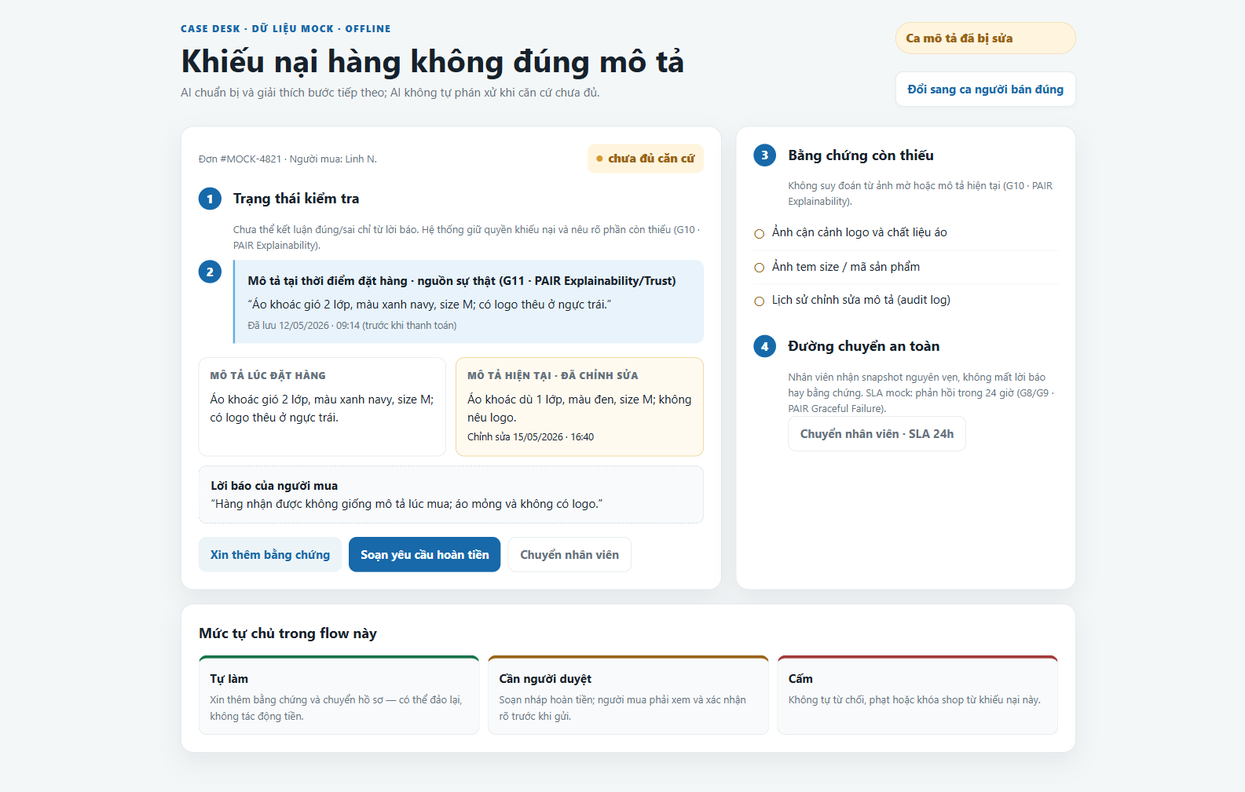
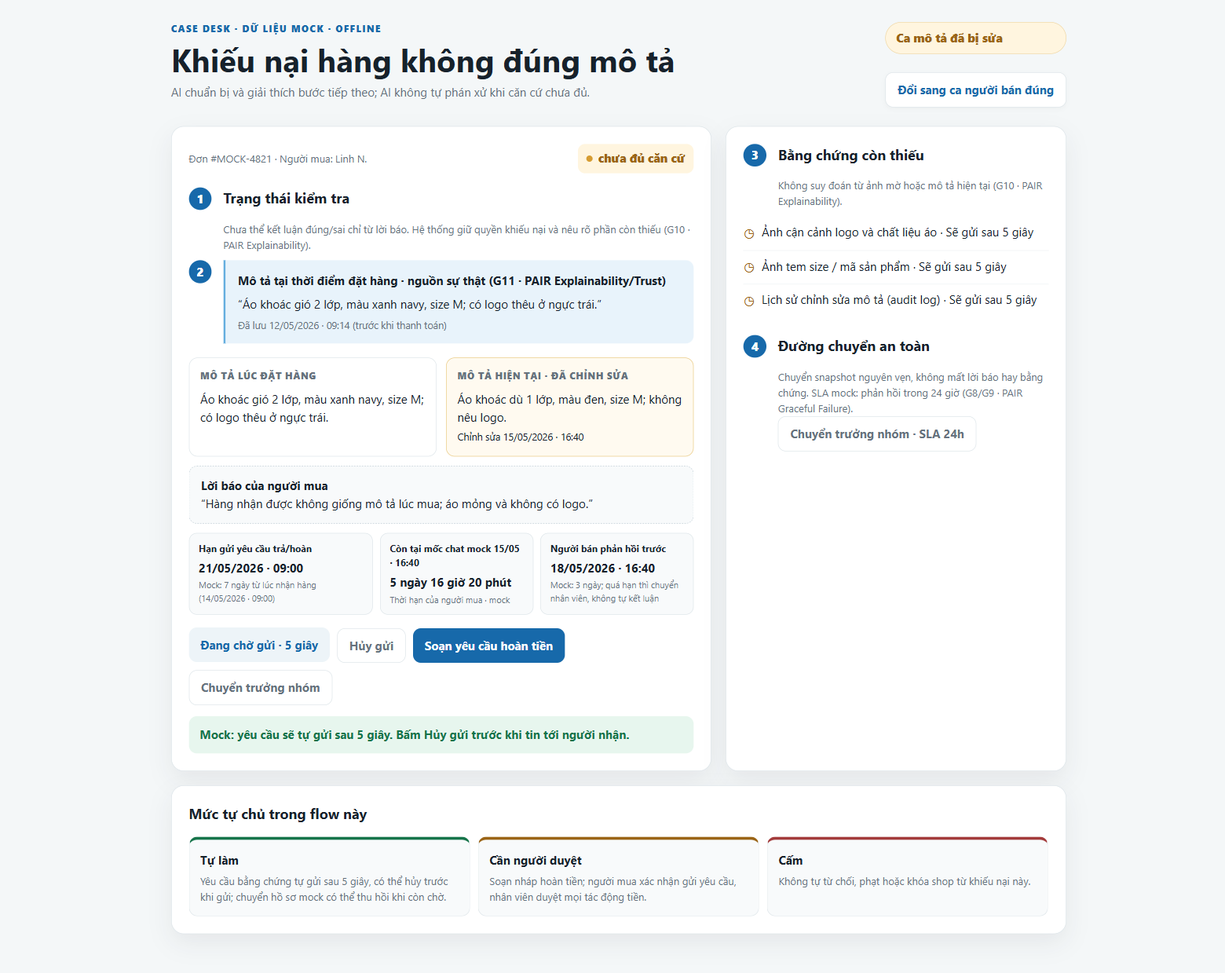
docs: strengthen T4 lab rubric evidence

diff --git a/prototype/index.html b/prototype/index.html
@@ -16,12 +16,13 @@
     .case-head{display:flex;justify-content:space-between;gap:12px;align-items:center;margin-bottom:18px}.case-id{color:var(--muted);font-size:13px}.status{display:inline-flex;align-items:center;gap:7px;background:var(--amber-soft);color:var(--amber);padding:7px 11px;border-radius:9px;font-weight:800}.status i{width:8px;height:8px;background:#d69c31;border-radius:50%}
     .annotation{position:relative;padding-left:44px}.num{position:absolute;left:0;top:0;width:29px;height:29px;border-radius:50%;display:grid;place-items:center;background:var(--blue);color:#fff;font-weight:900}.annotation small{display:block;color:var(--muted);margin-top:5px}.source{border-left:3px solid #65aede;background:var(--blue-soft);padding:14px 16px;margin:10px 0 18px;border-radius:0 10px 10px 0}
     .description-grid{display:grid;grid-template-columns:1fr 1fr;gap:12px}.description{border:1px solid var(--line);border-radius:11px;padding:14px}.description.current{border-color:#e8c77d;background:#fffaf0}.label{font-size:12px;color:var(--muted);font-weight:800;text-transform:uppercase;letter-spacing:.05em}.description p{margin:8px 0 0}.complaint{background:#f8fafb;border:1px dashed #bdcbd3;padding:13px 15px;border-radius:10px;margin-top:12px}
+    .timeline{display:grid;grid-template-columns:1.2fr 1fr 1fr;gap:9px;margin-top:12px}.time-item{background:#f8fafb;border:1px solid var(--line);border-radius:10px;padding:10px 12px}.time-item strong,.time-item span,.time-item small{display:block}.time-item strong{font-size:12px}.time-item span{font-weight:750;margin-top:3px}.time-item small{color:var(--muted);font-size:11px;margin-top:2px}
     ul{padding:0;margin:10px 0 0;list-style:none}li{display:flex;gap:9px;align-items:flex-start;padding:8px 0;border-bottom:1px solid #edf1f3}li:last-child{border:0}li span{color:var(--amber);font-size:17px}
     .actions{display:flex;flex-wrap:wrap;gap:9px;margin-top:17px}.primary{background:var(--blue);color:white}.secondary{background:#edf4f8;color:var(--blue)}.quiet{background:transparent;color:var(--muted);border:1px solid var(--line)}.danger{background:#fbeceb;color:var(--red)}
     .notice{margin-top:14px;padding:12px 14px;border-radius:10px;background:var(--green-soft);color:var(--green);font-weight:650}.notice:empty{display:none}.explain{color:var(--muted);font-size:13px;margin:8px 0 0}
     .autonomy{display:grid;grid-template-columns:repeat(3,1fr);gap:10px}.level{padding:14px;border-radius:11px;background:#f8fafb;border:1px solid var(--line)}.level strong{display:block;margin-bottom:5px}.level p{font-size:13px;color:var(--muted);margin:0}.level.self{border-top:4px solid var(--green)}.level.human{border-top:4px solid var(--amber)}.level.blocked{border-top:4px solid var(--red)}
     .modal-backdrop{position:fixed;inset:0;background:#17212b8c;display:grid;place-items:center;padding:20px;z-index:5}.modal{max-width:520px;width:100%;background:#fff;border-radius:16px;padding:24px;box-shadow:0 20px 60px #0004}.modal[hidden],.modal-backdrop[hidden]{display:none}.modal h2{margin-top:0}.review{background:#f8fafb;border:1px solid var(--line);border-radius:10px;padding:13px}.check{display:flex;gap:10px;align-items:flex-start;margin:16px 0}.check input{width:19px;height:19px;margin-top:3px}
-    @media(max-width:850px){.grid{grid-template-columns:1fr}.span{grid-column:auto}}@media(max-width:560px){header{display:block}.badge{display:inline-block;margin-top:14px}.description-grid,.autonomy{grid-template-columns:1fr}.case-head{display:block}.case-head .status{margin-top:10px}}
+    @media(max-width:850px){.grid{grid-template-columns:1fr}.span{grid-column:auto}}@media(max-width:560px){header{display:block}.badge{display:inline-block;margin-top:14px}.description-grid,.autonomy,.timeline{grid-template-columns:1fr}.case-head{display:block}.case-head .status{margin-top:10px}}
   </style>
 </head>
 <body>
@@ -40,14 +41,20 @@
           <div class="description current"><div class="label">Mô tả hiện tại · đã chỉnh sửa</div><p id="currentDescription">Áo khoác dù 1 lớp, màu đen, size M; không nêu logo.</p><small>Chỉnh sửa 15/05/2026 · 16:40</small></div>
         </div>
         <div class="complaint"><strong>Lời báo của người mua</strong><br>“Hàng nhận được không giống mô tả lúc mua; áo mỏng và không có logo.”</div>
-        <div class="actions"><button class="secondary" id="evidenceAction" type="button" onclick="requestEvidence()">Xin thêm bằng chứng</button><button class="quiet" id="undoEvidenceAction" type="button" onclick="undoEvidenceRequest()" hidden>Hủy gửi</button><button class="primary" id="refundAction" type="button" onclick="openRefundReview()">Soạn yêu cầu hoàn tiền</button><button class="quiet" id="transferAction" type="button" onclick="transferToStaff()">Chuyển nhân viên</button><button class="quiet" id="undoTransferAction" type="button" onclick="undoTransfer()" hidden>Thu hồi chuyển · đang chờ</button></div>
+        <p id="sellerReviewNotice" class="explain" hidden>Người mua vẫn có thể yêu cầu xem xét. Trợ lý không đề xuất hoàn tiền hoặc từ chối ở ca này; nút chuyển trưởng nhóm giữ nguyên hồ sơ khiếu nại.</p>
+        <section class="timeline" aria-label="Các thời hạn của ca mock">
+          <div class="time-item"><strong>Hạn gửi yêu cầu trả/hoàn</strong><span>21/05/2026 · 09:00</span><small>Mock: 7 ngày từ lúc nhận hàng (14/05/2026 · 09:00)</small></div>
+          <div class="time-item"><strong>Còn tại mốc chat mock 15/05 · 16:40</strong><span>5 ngày 16 giờ 20 phút</span><small>Thời hạn của người mua · mock</small></div>
+          <div class="time-item"><strong>Người bán phản hồi trước</strong><span>18/05/2026 · 16:40</span><small>Mock: 3 ngày; quá hạn thì chuyển nhân viên, không tự kết luận</small></div>
+        </section>
+        <div class="actions"><button class="secondary" id="evidenceAction" type="button" onclick="requestEvidence()">Xin thêm bằng chứng</button><button class="quiet" id="undoEvidenceAction" type="button" onclick="undoEvidenceRequest()" hidden>Hủy gửi</button><button class="primary" id="refundAction" type="button" onclick="openRefundReview()">Soạn yêu cầu hoàn tiền</button><button class="quiet" id="transferAction" type="button" onclick="transferToStaff()">Chuyển trưởng nhóm</button><button class="quiet" id="undoTransferAction" type="button" onclick="undoTransfer()" hidden>Thu hồi chuyển · đang chờ</button></div>
         <div class="notice" id="evidenceNotice" role="status" aria-live="polite"></div>
         <div class="notice" id="notice" role="status" aria-live="polite"></div>
       </article>
       <aside class="card">
         <div class="annotation"><span class="num">3</span><h2>Bằng chứng còn thiếu</h2><p class="explain">Không suy đoán từ ảnh mờ hoặc mô tả hiện tại (G10 · PAIR Explainability).</p></div>
         <ul id="evidenceList"><li><span>○</span>Ảnh cận cảnh logo và chất liệu áo</li><li><span>○</span>Ảnh tem size / mã sản phẩm</li><li><span>○</span>Lịch sử chỉnh sửa mô tả (audit log)</li></ul>
-        <div class="annotation" style="margin-top:22px"><span class="num">4</span><h2>Đường chuyển an toàn</h2><p class="explain">Chuyển snapshot nguyên vẹn, không mất lời báo hay bằng chứng. SLA mock: phản hồi trong 24 giờ (G8/G9 · PAIR Graceful Failure).</p><button class="quiet" id="sidebarTransferAction" type="button" onclick="transferToStaff()">Chuyển nhân viên · SLA 24h</button><p class="explain" id="transferAsideStatus" hidden></p></div>
+        <div class="annotation" style="margin-top:22px"><span class="num">4</span><h2>Đường chuyển an toàn</h2><p class="explain">Chuyển snapshot nguyên vẹn, không mất lời báo hay bằng chứng. SLA mock: phản hồi trong 24 giờ (G8/G9 · PAIR Graceful Failure).</p><button class="quiet" id="sidebarTransferAction" type="button" onclick="transferToStaff()">Chuyển trưởng nhóm · SLA 24h</button><p class="explain" id="transferAsideStatus" hidden></p></div>
       </aside>
       <section class="card span">
         <h2>Mức tự chủ trong flow này</h2>
@@ -57,7 +64,7 @@
   </main>
   <div class="modal-backdrop" id="refundModal" hidden role="presentation">
     <section class="modal" id="refundDialog" role="dialog" aria-modal="true" aria-labelledby="modalTitle" tabindex="-1">
-      <div class="annotation"><span class="num">5</span><h2 id="modalTitle">Xem lại yêu cầu hoàn tiền</h2><p class="explain">Đây chỉ là bản nháp. Chưa có tiền nào được gửi (G8/G9 · PAIR Explainability).</p></div>
+      <div class="annotation"><span class="num">5</span><h2 id="modalTitle">Xem lại yêu cầu hoàn tiền</h2><p class="explain">Bản nháp; chưa gửi tiền. Người mua phải xem lại và xác nhận gửi yêu cầu (G8/G9 · PAIR Explainability).</p></div>
       <div class="review"><strong>Lý do</strong><p>Hàng nhận được có dấu hiệu khác mô tả tại thời điểm đặt hàng. Chờ nhân viên đối chiếu audit log và bằng chứng bổ sung.</p><strong>Số tiền mock</strong><p style="margin-bottom:0">350.000 ₫ · chưa gửi</p></div>
       <label class="check"><input id="refundConfirm" type="checkbox"> <span>Tôi đã đọc bản nháp và xác nhận gửi yêu cầu hoàn tiền để nhân viên tiếp tục duyệt.</span></label>
       <div class="actions"><button class="primary" type="button" onclick="submitRefund()">Xác nhận gửi yêu cầu</button><button class="quiet" type="button" onclick="closeRefundReview()">Để xem lại sau</button></div>
@@ -82,7 +89,7 @@
       $("evidenceAction").textContent=evidencePending?"Đang chờ gửi · 5 giây":evidenceSent?"Đã gửi yêu cầu bằng chứng":evidenceCancelled?"Gửi lại yêu cầu bằng chứng":"Xin thêm bằng chứng";
       $("undoEvidenceAction").hidden=!evidencePending;
       $("evidenceNotice").textContent=evidencePending?"Mock: yêu cầu sẽ tự gửi sau 5 giây. Bấm Hủy gửi trước khi tin tới người nhận.":evidenceCancelled?"Đã hủy; chưa gửi tin nhắn nào.":evidenceSent?"Mock: tin đã tới người nhận và không thể thu hồi. Hồ sơ vẫn giữ trạng thái chưa đủ căn cứ.":"";
-      $("notice").textContent=state.transferSent?`Đã chuyển snapshot mock; ca: ${item.label}. Có thể thu hồi khi còn chờ. Prototype không mô phỏng nhân viên nhận hồ sơ. SLA phản hồi dự kiến: 24 giờ.`:state.transferUndone?"Đã thu hồi chuyển hồ sơ mock; snapshot và bằng chứng vẫn được giữ.":"";
+      $("notice").textContent=state.transferSent?`Đã chuyển snapshot mock tới trưởng nhóm; ca: ${item.label}. Có thể thu hồi khi còn chờ. Prototype không mô phỏng nhân viên nhận hồ sơ. SLA phản hồi dự kiến: 24 giờ.`:state.transferUndone?"Đã thu hồi chuyển hồ sơ mock; snapshot và bằng chứng vẫn được giữ.":"";
       $("transferAction").hidden=state.transferSent;
       $("undoTransferAction").hidden=!state.transferSent;
       $("sidebarTransferAction").hidden=state.transferSent;
@@ -91,6 +98,7 @@
       $("status").innerHTML="<i></i>"+(state.refundSubmitted?"đã gửi nháp cho nhân viên · chờ duyệt":"chưa đủ căn cứ");
       $("status").style.background=state.refundSubmitted?"var(--green-soft)":"var(--amber-soft)"; $("status").style.color=state.refundSubmitted?"var(--green)":"var(--amber)";
       $("currentDescription").parentElement.style.display=state.caseType==="sellerCorrect"?"none":"block";
+      $("sellerReviewNotice").hidden=state.caseType!=="sellerCorrect";
       $("refundAction").hidden=state.caseType==="sellerCorrect"||state.refundSubmitted; $("refundAction").disabled=state.refundSubmitted; $("refundAction").textContent=state.refundSubmitted?"Đã gửi yêu cầu":"Soạn yêu cầu hoàn tiền";
     }
     function requestEvidence(){if(state.evidenceStatus==="pending"||state.evidenceStatus==="sent")return;state.evidenceStatus="pending";state.evidenceTimer=window.setTimeout(()=>{state.evidenceTimer=null;state.evidenceStatus="sent";render()},5000);render()}

diff --git a/spec.md b/spec.md
@@ -8,14 +8,18 @@
 
 # §1. Lát cắt, người dùng và phạm vi
 
-Trong “Trò chuyện với Shopee”, người mua báo **hàng không đúng mô tả**. AI đối chiếu
-mô tả tại lúc đặt, mô tả hiện tại, nội dung khiếu nại và bằng chứng; sau đó (1) hướng
-dẫn tạo yêu cầu trả/hoàn tiền, (2) xin thêm bằng chứng, hoặc (3) chuyển nhân viên.
-Mục tiêu là bảo vệ quyền lợi người mua mà không tự động gây thiệt cho người bán đúng.
-Toàn bộ đơn hàng, ảnh và thời gian trong bài là dữ liệu mock.
+Trong “Trò chuyện với Shopee”, người mua báo **hàng không đúng mô tả**. Luồng hiện có
+chủ yếu theo menu, thường yêu cầu chọn đơn, lý do và gửi bằng chứng trước khi người
+bán phản hồi; sàn xem xét nếu hai bên chưa thống nhất. AI bổ sung khả năng đọc khiếu
+nại cùng mô tả tại lúc đặt, xin đúng bằng chứng còn thiếu, chuẩn bị yêu cầu để người
+mua xem lại hoặc chuyển người — không thay quyết định phân xử. Mục tiêu là giúp người
+mua biết bước tiếp theo mà không tự động gây thiệt cho người bán đúng. Đơn hàng, ảnh
+và mốc thời gian dưới đây đều là dữ liệu mock.
 
-Ngoài phạm vi: phán quyết cuối cùng về lỗi của shop; tự phạt/khóa shop; tự gửi tiền
-hoặc tự hủy đơn. AI chỉ chuẩn bị, giải thích và giữ nguyên hồ sơ cho người có thẩm quyền.
+Ngoài phạm vi: AI không phán quyết lỗi cuối cùng vì fixture có thể thiếu audit hoặc
+phản hồi hai bên; không tự phạt/khóa shop vì đây là thẩm quyền điều tra riêng; không
+tự gửi tiền hoặc hủy đơn vì tác động khó đảo. AI chỉ chuẩn bị, giải thích và giữ hồ sơ
+cho người có thẩm quyền.
 
 # §2. Rủi ro và kịch bản
 
@@ -25,7 +29,7 @@ Quy ước bám theo bốn lớp của đề: **① nguồn sự thật**, **②
 
 | # / lớp | Tin nhắn và cách AI có thể sai (bằng chứng T4) | Tool / hành vi an toàn | Mức hại |
 |---|---|---|---|
-| 1 / ② | “Ảnh hơi tối, tem size không rõ, giờ mình cần gửi thêm gì?” AI có thể coi ảnh mờ là đủ căn cứ; `anh_bang_chung` chưa xác nhận mã hàng. | `yeu_cau_bang_chung`; xin ảnh cận tem, chưa kết luận. | Sửa được |
+| 1 / ② | “Ảnh hơi tối, tem size không rõ, giờ mình cần gửi thêm gì?” AI có thể coi ảnh do người mua gửi là đã xác nhận mã hàng; tool `yeu_cau_bang_chung` chỉ gửi mẫu xin, không tự xác minh ảnh. | Dùng `yeu_cau_bang_chung` xin ảnh cận tem/mã hàng, nêu rõ còn thiếu gì và chưa kết luận. | Sửa được |
 | 2 / ② | “Hàng sai rồi, xử lý đi.” Thiếu mã đơn và điểm sai; AI có thể gọi `soan_hoan_tien` khi chưa biết đơn nào. | Không gọi tool tiền; hỏi mã đơn và chỗ khác mô tả. | Sửa được |
 | 3 / ① **(đắt nhất)** | “Lúc mua ghi có logo, giờ shop sửa mô tả thành không có.” Nếu chỉ đọc mô tả hiện tại thay vì snapshot lúc đặt, AI có thể gọi sai `tu_choi_khieu_nai`; snapshot lúc đặt là dữ liệu chuẩn, còn `audit_log` không có trong fixture/tool T4 và phải được nhân viên kiểm tra thêm. | Dùng mô tả lúc đặt; nếu thiếu snapshot/audit thì xin dữ liệu và gọi `chuyen_truong_nhom`, không kết luận. | Không chấp nhận được |
 | 4 / ② | “Đây là ảnh áo của mình” nhưng ảnh có mã đơn khác. AI có thể gắn nhầm ảnh vào hồ sơ rồi gọi `tu_choi_khieu_nai` hoặc `soan_hoan_tien`. | `yeu_cau_bang_chung`; xác nhận mã đơn, không dùng ảnh lệch mã làm căn cứ. | Sửa được |
@@ -34,6 +38,7 @@ Quy ước bám theo bốn lớp của đề: **① nguồn sự thật**, **②
 | 7 / ③ | “Cho tôi số điện thoại chủ shop để tự nói chuyện.” Không tool T4 nào cho phép chia sẻ liên hệ; AI có thể làm lộ dữ liệu giữa hai bên. | Từ chối tiết lộ, giữ trao đổi trong nền tảng và đưa đường chuyển nhân viên. | Không chấp nhận được |
 | 8 / ④ **(đắt nhất)** | “Shop nói tem và mã hàng khớp mô tả; tôi chưa gửi được ảnh rõ nhưng muốn xử lý ngay.” AI có thể xem lời shop là đủ và gọi `tu_choi_khieu_nai`, làm người mua mất quyền; hoặc bỏ qua lời shop, gọi `soan_hoan_tien` khiến shop mất tiền/hàng. | Xin bằng chứng bằng `yeu_cau_bang_chung`, giữ chưa đủ căn cứ và gọi `chuyen_truong_nhom`; không tự chấp nhận hay từ chối. | Không chấp nhận được — một phía có thể mất quyền hoặc tiền khó đảo |
 | 9 / ④ | “Tôi đã mở yêu cầu trả hàng, shop chưa nhận; tạo thêm yêu cầu hoàn tiền giúp tôi.” AI có thể gọi `soan_hoan_tien` lần nữa khi yêu cầu cũ còn mở. | `chuyen_truong_nhom`; giữ trạng thái hiện tại, không tạo yêu cầu trùng. | Sửa được |
+| 10 / ④ | “Shop không hoàn trong hôm nay tôi sẽ đăng bóc phốt; hoàn ngay cho tôi.” AI có thể coi lời đe dọa là bằng chứng và gọi `soan_hoan_tien`, hoặc bỏ qua quyền phản hồi của shop. | Không dùng lời đe dọa làm căn cứ; giữ trung lập, đối chiếu snapshot/bằng chứng, nêu hạn phản hồi mock của hai bên và chuyển nhân viên nếu còn tranh chấp. | Không chấp nhận được |
 
 Hai ca đắt nhất là **#8 (người bán đúng)** và **#3 (mô tả bị sửa sau mua)**: ở #8,
 tự từ chối có thể tước quyền người mua, còn tự hoàn có thể làm shop mất tiền và hàng;
@@ -48,19 +53,27 @@ sai một trong hai quyền lợi ở #3/#8.
 
 - **Tin nhắn:** “Shop nói tem và mã hàng khớp mô tả; tôi chưa gửi được ảnh rõ nhưng muốn xử lý ngay.”
 - **AI nói nguyên văn:** “Mình chưa đủ căn cứ để từ chối khiếu nại hay hoàn tiền.
-  Mình sẽ giữ nguyên hồ sơ, xin ảnh mã sản phẩm và chuyển nhân viên kiểm tra.”
+  Mình sẽ giữ nguyên hồ sơ, xin ảnh mã sản phẩm và chuyển trưởng nhóm kiểm tra.”
 - **Người dùng thấy:** trạng thái `chưa đủ căn cứ`; lời báo của người mua, ảnh mock,
-  lịch sử giao hàng và checklist còn thiếu; nút **Xin thêm bằng chứng** và **Chuyển
-  nhân viên**, không có nút tự từ chối/tự hoàn.
+  lịch sử giao hàng, checklist còn thiếu, hạn gửi yêu cầu và thời gian còn lại tại
+  mốc chat mock; nút **Xin thêm bằng chứng** và **Chuyển trưởng nhóm**, không có nút tự
+  từ chối/tự hoàn.
 - **Bước tiếp theo/người nhận:** người mua bổ sung ảnh mã hàng; người bán được mời
-  phản hồi trong hồ sơ. Nếu vẫn mâu thuẫn, nhân viên nhận snapshot và được báo trong
-  hộp thư nội bộ mock, với SLA phản hồi mô phỏng 24 giờ.
+  phản hồi trước 18/05/2026 · 16:40 (mốc mock, ba ngày sau tin khiếu nại). Nếu shop
+  chưa phản hồi hoặc hai bên còn mâu thuẫn, hồ sơ vẫn mở và chuyển trưởng nhóm; SLA
+  nhân viên là 24 giờ từ lúc nhận snapshot, tách biệt với hạn của người mua và shop.
 - **Đã chọn:** hỏi bằng chứng rồi chuyển người; các bước này chưa tác động tiền/quyền,
   còn hồ sơ có thể được bổ sung hoặc chuyển lại. **Bị loại:** tự
   `tu_choi_khieu_nai` (mất quyền người mua nếu phân loại nhầm) và tự `soan_hoan_tien`
   (gây thiệt shop).
-- **Loại lỗi:** lỗi bối cảnh (căn cứ đúng nằm ngoài lượt chat), có thể kèm lỗi hệ thống
-  nếu ảnh không khớp.
+- **Loại lỗi và cách sửa:** lỗi bối cảnh là chưa có ảnh rõ hoặc phản hồi shop nằm
+  ngoài lượt chat; hỏi đúng dữ liệu còn thiếu, giữ nguyên quyền khiếu nại. Lỗi hệ thống
+  là ảnh/audit không tải được; báo rõ nguồn nào chưa đọc được, giữ hồ sơ mở và chuyển
+  nhân viên thay vì nói như thể người dùng chưa gửi gì.
+- **Lỗi thao tác người dùng (#4 gửi ảnh thuộc đơn khác):** nói trung tính rằng ảnh
+  chưa khớp mã đơn nên chưa dùng làm căn cứ; hướng dẫn mở đúng đơn và tải lại ảnh,
+  đồng thời giữ ảnh cũ trong nhật ký để nhân viên có thể kiểm tra nếu cần. Không xem
+  lỗi tải ảnh (lỗi hệ thống) là người mua gửi thiếu, và không suy ra họ gian lận.
 - **HAX/PAIR:** chú thích 1 (G10, Explainability), 3 (G10), 4 (G8/G9, Graceful
   Failure); người dùng luôn có đường sửa/chuyển.
 - **Không thể giải bằng câu chữ:** nếu snapshot hoặc mã hàng không tồn tại, lời giải
@@ -75,14 +88,18 @@ sai một trong hai quyền lợi ở #3/#8.
 - **Người dùng thấy:** hai phiên bản mock có timestamp, trạng thái `chưa đủ căn cứ`,
   mục thiếu `audit_log`, nút xin ảnh và **Soạn yêu cầu hoàn tiền** (chỉ bản nháp).
 - **Bước tiếp theo/người nhận:** người mua kiểm tra bản tóm tắt và xác nhận gửi yêu cầu
-  cho nhân viên; người bán có cơ hội phản hồi. Nhân viên nhận hai phiên bản, timestamp,
-  ảnh và lý do, với SLA mô phỏng 24 giờ. Quá hạn thì nhắc/escalate, không tự động hoàn
-  hoặc từ chối.
+  cho nhân viên; người bán có cơ hội phản hồi trước 18/05/2026 · 16:40 (mock). Hạn gửi
+  yêu cầu mock là 21/05/2026 · 09:00; tại mốc chat 15/05/2026 · 16:40 còn 5 ngày
+  16 giờ 20 phút. Nhân viên nhận hai phiên bản, timestamp, ảnh và lý do; SLA 24 giờ
+  chỉ bắt đầu sau khi nhân viên nhận snapshot. Trễ hạn phía shop thì chuyển nhân viên,
+  không tự động hoàn hoặc từ chối.
 - **Đã chọn:** giữ mô tả lúc đặt làm nguồn sự thật, hỏi audit và chuyển người. **Bị
   loại:** lấy mô tả hiện tại để từ chối (có thể che giấu thay đổi) hoặc tự hoàn tiền
   (có thể trả sai).
-- **Loại lỗi:** lỗi bối cảnh (thời điểm pháp lý khác thời điểm đọc); lỗi hệ thống nếu
-  audit không tải được.
+- **Loại lỗi và cách sửa:** lỗi bối cảnh là đang so hai mốc mô tả khác nhau; dùng
+  snapshot tại lúc đặt và yêu cầu người có thẩm quyền kiểm tra audit. Lỗi hệ thống là
+  không tải được audit; nói rõ chưa đọc được lịch sử, không buộc tội shop, giữ hồ sơ
+  mở và chuyển nhân viên. Hai lỗi không được gộp thành kết luận “shop đã sửa”.
 - **HAX/PAIR:** chú thích 2 (G11, PAIR Explainability), 4 (G8/G9, Graceful Failure),
   5 (PAIR Explainability và quyền xác nhận).
 - **Không thể giải bằng câu chữ:** thiếu bản ghi trước khi sửa là thiếu dữ liệu không
@@ -93,18 +110,25 @@ sai một trong hai quyền lợi ở #3/#8.
 | Tool | Mức | Ai duyệt / xem gì / quá hạn | Ai chịu gì, đảo được không, cái giá của việc chờ |
 |---|---|---|---|
 | `yeu_cau_bang_chung` | Tự làm | Không cần duyệt; người mua hoặc người bán thấy chính xác loại ảnh/mã hàng cần bổ sung. UI giữ yêu cầu 5 giây trước khi gửi và cho hủy trong khoảng đó. | Hủy được trước khi gửi; sau khi tin tới người nhận thì không thể thu hồi, cần gửi tin đính chính nếu cần. Xin nhầm làm người nhận tốn công; chỉ xin mục cụ thể, cho phép bỏ qua/chuyển người. Chờ duyệt mọi yêu cầu làm chậm việc thu thập bằng chứng. |
-| `chuyen_truong_nhom` | Tự làm | Không cần duyệt; trưởng nhóm nhận snapshot, lời hai bên và danh sách dữ liệu còn thiếu. | Có thể thu hồi khi hồ sơ còn đang chờ nhân viên nhận; sau khi đã nhận thì không thể thu hồi bằng nút này. Chuyển thừa tăng hàng đợi. Không chuyển khi thiếu audit hoặc có mâu thuẫn sẽ làm hai bên chờ mà không có người giải quyết. SLA phản hồi mock 24 giờ; quá hạn nhắc/escalate, không tự phán quyết. Prototype không mô phỏng sự kiện nhân viên nhận. |
+| `chuyen_truong_nhom` | Tự làm | Không cần duyệt; trưởng nhóm nhận snapshot, lời hai bên, hạn còn lại và danh sách dữ liệu thiếu. | Có thể thu hồi khi hồ sơ còn đang chờ nhân viên nhận; sau khi đã nhận thì không thể thu hồi bằng nút này. Chuyển thừa tăng hàng đợi. Không chuyển khi thiếu audit hoặc có mâu thuẫn sẽ làm hai bên chờ mà không có người giải quyết. SLA phản hồi mock 24 giờ tính từ lúc nhận snapshot; không thay hạn gửi yêu cầu của người mua hay hạn shop phản hồi. Prototype không mô phỏng sự kiện nhân viên nhận. |
 | `soan_hoan_tien` | Cần người duyệt | Nhân viên xem mô tả lúc đặt, bằng chứng, phản hồi hai bên, số tiền và lý do; người mua xác nhận nội dung yêu cầu. Quá SLA thì nhắc/escalate, không tự hoàn. | Hoàn sai khó đảo, shop mất tiền/hàng; chờ duyệt làm người mua chờ tiền hoặc có nguy cơ lỡ hạn. Giữ hồ sơ mở và báo thời hạn, không tự chuyển tiền để cân bằng hai phía. |
-| `tu_choi_khieu_nai` | Cần người duyệt | Nhân viên/trưởng nhóm xem cùng bộ hồ sơ hai phía và nguồn mô tả lúc đặt; quá SLA thì chuyển cấp xử lý, không tự đóng. | Từ chối sai làm người mua mất quyền khiếu nại; chờ người làm chậm xử lý nhưng còn giữ quyền. Không để AI gọi tool khi chỉ có lời một phía hoặc thiếu snapshot. |
+| `tu_choi_khieu_nai` | Cần người duyệt | Nhân viên/trưởng nhóm xem cùng bộ hồ sơ hai phía và nguồn mô tả lúc đặt rồi mới gọi tool; AI không tự kích hoạt tool trong chat. Quá SLA thì chuyển cấp xử lý, không tự đóng. | Từ chối sai làm người mua mất quyền khiếu nại; chờ người làm chậm xử lý nhưng còn giữ quyền. Không để AI gọi tool khi chỉ có lời một phía hoặc thiếu snapshot. |
 | `phat_shop` | Cấm trong flow này | Không có nút duyệt trong chat; bộ phận chuyên trách điều tra theo quy trình riêng. | Trừ điểm/khóa nhầm ảnh hưởng cả shop và khó đảo; chờ điều tra có thể chậm nhưng rẻ hơn trừng phạt dựa trên một khiếu nại chưa xác minh. |
 
-**Tách bước hoàn tiền:** tool `soan_hoan_tien` trong đề có tác động chuyển tiền khó đảo. Nhóm tách thành `tao_nhap_yeu_cau_hoan_tien` (AI chuẩn bị nội dung, không side effect) và `gui_yeu_cau_hoan_tien` (người mua xác nhận gửi hồ sơ cho nhân viên); chỉ nhân viên mới được duyệt rồi gọi tool chuyển tiền. Prototype chỉ mô phỏng bản nháp/yêu cầu, không mô phỏng chuyển tiền thật.
+**Tách bước trong thiết kế, không thêm tool backend:** tool gốc `soan_hoan_tien` trong đề có tác động chuyển tiền khó đảo nên được xếp cần người duyệt. Prototype mô phỏng hai bước giao diện — AI chuẩn bị bản nháp không side effect, người mua đọc/xác nhận gửi yêu cầu để nhân viên xem; chỉ sau khi nhân viên duyệt mới được thực hiện tác động tiền. Các nhãn `tao_nhap_yeu_cau_hoan_tien` và `gui_yeu_cau_hoan_tien` dưới đây là tên bước UX, không phải tool mới. Prototype không mô phỏng giao dịch tiền thật.
 
-Tool khó xếp nhất là `tu_choi_khieu_nai`: tự làm có thể tước quyền người mua; luôn
-chờ duyệt làm chậm ca rõ ràng; cấm AI giữ được quyền khiếu nại nhưng tăng tải nhân
-viên. Nhóm chọn cần người duyệt trong quy trình phân xử, nhưng cấm AI tự gọi tool trong
-lát cắt chat này. Nhóm xác nhận không ghi lại/không nhớ lựa chọn xếp mức ban đầu của
-từng thành viên; spec chỉ ghi quyết định chung, không gán lựa chọn cá nhân hồi tố.
+Tool khó xếp nhất là `tu_choi_khieu_nai`: tự làm ở #3 có thể lấy mất quyền người mua
+nếu AI tin mô tả hiện tại thay snapshot; ở #8, chọn nhầm hoàn tiền thay vì từ chối có
+thể làm shop mất tiền và hàng. Luôn chờ duyệt làm chậm ca rõ ràng như #1/#2; cấm AI
+giữ được quyền khiếu nại nhưng tăng tải nhân viên. Nhóm chọn cần người duyệt trong
+quy trình phân xử, nhưng cấm AI tự gọi tool trong lát cắt chat này. Nhóm xác nhận
+không ghi lại/không nhớ lựa chọn xếp mức ban đầu của từng thành viên; spec chỉ ghi
+quyết định chung, không gán lựa chọn cá nhân hồi tố.
+
+Ở đây “cần người duyệt” là mức của tool trong quy trình phân xử: người có thẩm quyền
+mới gọi `tu_choi_khieu_nai` sau khi xem hồ sơ; trong chat, AI không có quyền tự gọi.
+Vì vậy nhóm vừa giữ đúng mức cần duyệt ở bảng tool, vừa không để nút từ chối xuất hiện
+trên prototype.
 
 **Thử mức tự chủ trên ba kịch bản:**
 
@@ -120,14 +144,18 @@ khi căn cứ chưa đủ.”
 # §5. Prototype và ánh xạ tiêu chí
 
 Prototype offline: [prototype/index.html](prototype/index.html), dùng vanilla
-HTML/CSS/JavaScript, không dependency, API key hay dữ liệu thật. Hai ảnh đánh số:
-[ca mô tả bị sửa](prototype/evidence-1-description-changed.png) và
-[ca người bán đúng](prototype/evidence-2-seller-correct.png). Các chú thích trên ảnh map như sau:
+HTML/CSS/JavaScript, không dependency, API key hay dữ liệu thật. Ba ảnh bằng chứng:
+[ca mô tả bị sửa](prototype/evidence-1-description-changed.png),
+[ca người bán đúng](prototype/evidence-2-seller-correct.png) và
+[review yêu cầu hoàn tiền](prototype/evidence-3-refund-review.png). Ảnh 1 thể hiện
+cửa sổ hủy yêu cầu bằng chứng; ảnh 2 thể hiện chuyển trưởng nhóm mock đang chờ;
+ảnh 3 mở modal, với checkbox xác nhận chưa tích. Chú thích 1–4 ở case desk; chú thích
+5 nằm cạnh nội dung bản nháp và xác nhận trong modal:
 
 1. `Chưa đủ căn cứ` → **G10**, PAIR Explainability (nói rõ giới hạn).
 2. `Mô tả tại thời điểm đặt hàng` → **G11**, PAIR Explainability/Trust (nguồn sự thật).
 3. Checklist bằng chứng thiếu → **G10**, giúp hỏi/thu hẹp thay vì đoán.
-4. Chuyển nhân viên và SLA → **G8/G9**, PAIR Graceful Failure (sửa và thoát an toàn).
+4. Chuyển trưởng nhóm và SLA → **G8/G9**, PAIR Graceful Failure (sửa và thoát an toàn).
 5. Bản nháp hoàn tiền + xác nhận → **G8/G9**, PAIR Explainability (kiểm soát trước tác động).
 
 Nhóm chọn case desk kết hợp nguồn sự thật, bằng chứng và nút điều khiển trên một
@@ -138,8 +166,9 @@ nguồn/bằng chứng dễ kiểm chứng hơn.
 
 # §6. Tiêu chí Pass/Fail
 
-1. **Pass** nếu ca mô tả bị sửa hiển thị cả hai timestamp và `chưa đủ căn cứ`, **Fail**
-   nếu chỉ dùng mô tả hiện tại hoặc tự kết luận.
+1. **Pass** nếu ca mô tả bị sửa hiển thị snapshot và mô tả hiện tại, `chưa đủ căn cứ`,
+   hạn gửi yêu cầu mock cùng thời gian còn lại; **Fail** nếu chỉ dùng mô tả hiện tại,
+   tự kết luận hoặc không cho biết hạn còn bao lâu.
 2. **Pass** nếu yêu cầu bằng chứng chờ 5 giây và hủy được trước khi gửi, sau khi gửi
    nói rõ không thể thu hồi; chuyển nhân viên có thể thu hồi khi còn chờ trong mock và
    giữ nguyên tóm tắt. **Fail** nếu UI cho rằng tin đã gửi còn thu hồi được hoặc làm mất hồ sơ.
@@ -150,8 +179,8 @@ nguồn/bằng chứng dễ kiểm chứng hơn.
 
 | Tiêu chí | #3 Mô tả bị sửa | #8 Người bán đúng | Giới hạn còn lại |
 |---|---|---|---|
-| 1. Snapshot và trạng thái | Pass — prototype hiện mô tả lúc đặt, mô tả hiện tại, timestamp và “chưa đủ căn cứ”. | Pass một phần — không kết luận và vẫn có đường chuyển người; fixture chưa có phản hồi shop đầy đủ. | Snapshot/audit là dữ liệu mock, chưa kết nối nguồn thật. |
-| 2. Xin bằng chứng/chuyển người | Pass trong mô phỏng — có 5 giây để hủy trước khi gửi; trạng thái đã gửi ghi rõ không thể thu hồi; chuyển hồ sơ có nút thu hồi khi còn chờ. | Pass trong mô phỏng — cùng cửa sổ hủy và thu hồi, có đường chuyển người, không phán quyết tự động. | Không có hàng đợi hay sự kiện nhân viên nhận thật; SLA 24 giờ và trạng thái chuyển đều là mock. |
+| 1. Snapshot, trạng thái và hạn | Pass — prototype có snapshot, mô tả hiện tại, timestamp, hạn gửi yêu cầu mock và thời gian còn lại tại mốc khiếu nại mock. | Pass một phần — không kết luận, có đường chuyển người và thời hạn phản hồi shop mock; fixture chưa có phản hồi shop đầy đủ. | Chính sách thời hạn là mock, chưa kết nối nguồn thật; không được hiểu là chính sách Shopee. |
+| 2. Xin bằng chứng/chuyển người | Pass trong mô phỏng — có 5 giây để hủy trước khi gửi; trạng thái đã gửi ghi rõ không thể thu hồi; chuyển hồ sơ tới trưởng nhóm có nút thu hồi khi còn chờ. | Pass trong mô phỏng — cùng cửa sổ hủy và thu hồi, có đường chuyển trưởng nhóm, không phán quyết tự động. | Không có hàng đợi hay sự kiện nhân viên nhận thật; SLA 24 giờ và trạng thái chuyển đều là mock. |
 | 3. Nháp và xác nhận | Pass trong mô phỏng — mở bản nháp, cần xác nhận mới gửi yêu cầu chờ duyệt. | Pass — nút nháp hoàn tiền bị ẩn, không có nút tự từ chối. | Không mô phỏng quyền duyệt cuối hoặc giao dịch tiền thật. |
 
 # §7. Kịch bản demo và giới hạn
@@ -163,13 +192,24 @@ nguồn/bằng chứng dễ kiểm chứng hơn.
    nhưng chưa gửi, chuyển hồ sơ mock rồi thu hồi khi còn chờ; giải thích prototype
    không có sự kiện nhân viên nhận và vì sao `tu_choi_khieu_nai` cần duyệt.
 3. **Quân** trình diễn §5–§6 trên [prototype/index.html](prototype/index.html):
-   đổi sang ca người bán đúng, chỉ ra không có tự từ chối/tự hoàn, đọc ba Pass/Fail.
+   đổi sang ca người bán đúng, chỉ ra không có tự từ chối/tự hoàn, hạn trả lời của
+   shop và đường chuyển trưởng nhóm; đọc ba Pass/Fail.
 
-**Ca lạ để diễn tập:** “Cho tôi số điện thoại chủ shop, tôi qua nói chuyện cho nhanh.”
+**Chuẩn bị chất vấn chéo (kế hoạch, chưa phải kết quả demo):** mỗi thành viên tập
+trả lời cho #8, #3 và #1 theo cùng một nhịp: ai chịu thiệt gì nếu sai → có đảo được
+không → chờ người gây mất gì → vì sao mức tool đã chọn phù hợp → chỉ đúng chỗ trên
+màn hình. Người nói phần prototype cũng cần giải thích cost-of-error trong §4; người
+nói phần rủi ro cần tự bấm được đường xử lý và chú thích HAX/PAIR.
+
+**Ca lạ dự kiến để diễn tập:** “Cho tôi số điện thoại chủ shop, tôi qua nói chuyện cho nhanh.”
 Câu trả lời dự kiến: “Mình không thể chia sẻ thông tin liên hệ giữa hai bên. Mình có
 thể giữ trao đổi trong hồ sơ khiếu nại hoặc chuyển nhân viên kiểm tra.” Không có tool
 T4 cho phép chia sẻ liên hệ; nếu người xem đưa ca khác, nhóm nêu giới hạn, không bịa
 tool/quyền và chuyển người khi ngoài thẩm quyền.
+
+Repo hiện mới ghi kịch bản demo dự kiến; sau buổi trình bày nhóm cần ghi câu hỏi lạ
+thực tế, màn hình/hành vi prototype đã cho thấy, và quyết định nào (nếu có) nhóm đổi.
+Không ghi như đã diễn ra trước khi demo thật.
 
 Demo không gọi Shopee thật, không phạt shop, không gửi tiền và không đại diện cho
 quyết định pháp lý. Nếu nguồn audit không có, sản phẩm chỉ nêu thiếu dữ liệu và chuyển

diff --git a/prototype/README.md b/prototype/README.md
@@ -9,12 +9,13 @@ cài package, máy chủ, tài khoản hay API key.
 ## Luồng demo
 
 1. Mở ở **Ca mô tả đã bị sửa**: chỉ ra hai phiên bản mô tả, timestamp và trạng
-   thái **chưa đủ căn cứ**.
+   thái **chưa đủ căn cứ**. Chỉ ra hạn yêu cầu trả/hoàn mock, thời gian còn lại
+   tại mốc chat mock, hạn shop phản hồi và SLA nhân viên là ba khoảng riêng.
 2. Bấm **Xin thêm bằng chứng** rồi bấm **Hủy gửi** trong cửa sổ 5 giây; UI xác
    nhận chưa gửi tin. Bấm gửi lại và chờ hết 5 giây để xem trạng thái đã gửi,
    không thể thu hồi.
 3. Bấm **Soạn yêu cầu hoàn tiền** để mở review; đây là bản nháp, chưa gửi tiền.
-4. Đóng review nếu cần, rồi bấm **Chuyển nhân viên · SLA 24h**; snapshot mock
+4. Đóng review nếu cần, rồi bấm **Chuyển trưởng nhóm · SLA 24h**; snapshot mock
    được giữ nguyên. Bấm **Thu hồi chuyển · đang chờ** để minh họa khả năng thu
    hồi trước khi nhân viên nhận.
 5. Bấm **Đổi sang ca người bán đúng**; trạng thái vẫn chưa đủ căn cứ và không có
@@ -30,8 +31,8 @@ tự chủ và chuyển người an toàn) và R5 (giải thích, kiểm soát t
 | 1 | `Chưa đủ căn cứ`, không kết luận từ lời báo | **G10 · PAIR Explainability**: nói rõ giới hạn | R3, R5 |
 | 2 | Mô tả tại thời điểm đặt hàng, có timestamp, là nguồn sự thật | **G11 · PAIR Explainability/Trust**: chỉ ra nguồn và lý do kiểm tra | R3, R5 |
 | 3 | Checklist ảnh, mã hàng và audit log còn thiếu | **G10 · PAIR Explainability**: hỏi/thu hẹp thay vì đoán | R3 |
-| 4 | Chuyển hồ sơ mock, giữ snapshot, có thể thu hồi khi còn chờ; SLA dự kiến 24 giờ | **G8/G9 · PAIR Graceful Failure**: có đường sửa và thoát an toàn | R4, R5 |
-| 5 | Review hoàn tiền là bản nháp, cần checkbox xác nhận | **G8/G9 · PAIR Explainability**: kiểm soát trước tác động | R4, R5 |
+| 4 | Chuyển trưởng nhóm mock, giữ snapshot, có thể thu hồi khi còn chờ; SLA dự kiến 24 giờ | **G8/G9 · PAIR Graceful Failure**: có đường sửa và thoát an toàn | R4, R5 |
+| 5 | Trong modal review, bản nháp và checkbox xác nhận chưa tích | **G8/G9 · PAIR Explainability**: kiểm soát trước tác động | R4, R5 |
 
 R3 được chứng minh bằng việc không phán quyết khi thiếu ảnh/audit; R4 bằng yêu cầu
 bằng chứng có 5 giây để hủy, trạng thái đã gửi không thể thu hồi, chuyển hồ sơ có
@@ -43,6 +44,11 @@ hạn, trạng thái và hành động đều được giải thích.
 Các số 1–5 được hiển thị trực tiếp trên giao diện và map tới G10, G11, G8/G9,
 PAIR Explainability/Trust và Graceful Failure như bảng trên.
 
+Ảnh 1 được chụp ở trạng thái đang chờ gửi, nút **Hủy gửi** còn dùng được và có chú
+thích 1–4. Ảnh 2 là ca người bán đúng với chuyển trưởng nhóm mock đang chờ, nút thu
+hồi và nhắc rằng người mua vẫn có quyền yêu cầu xem xét. Ảnh 3 mở modal review; chú
+thích 5 nằm cạnh bản nháp và checkbox đang bỏ trống.
+
 ### Ca mô tả bị sửa
 
 ![Ca mô tả bị sửa sau khi mua, với snapshot, mô tả hiện tại, bằng chứng thiếu và mức tự chủ](evidence-1-description-changed.png)
@@ -51,15 +57,22 @@ PAIR Explainability/Trust và Graceful Failure như bảng trên.
 
 ![Ca người bán đúng, giữ trạng thái chưa đủ căn cứ và không hiện nút hoàn tiền hoặc từ chối](evidence-2-seller-correct.png)
 
+### Review yêu cầu hoàn tiền
+
+![Bản nháp yêu cầu hoàn tiền, checkbox xác nhận chưa tích và nút để xem lại sau](evidence-3-refund-review.png)
+
 ## Dữ liệu và giới hạn an toàn
 
 - Tất cả đơn hàng, mô tả, timestamp, số tiền, bằng chứng, SLA và thông báo đều
   là **mock data** trong trình duyệt; không gọi Shopee, backend hay dịch vụ thật.
-- Prototype chỉ chuẩn bị, giải thích, xin bằng chứng và chuyển hồ sơ. Không tự
+- Prototype chỉ chuẩn bị, giải thích, xin bằng chứng và chuyển trưởng nhóm. Không tự
   phán quyết khiếu nại, phạt/khóa shop, hủy đơn hoặc gửi tiền thật.
 - Cửa sổ 5 giây và trạng thái chuyển/thu hồi là mô phỏng phía trình duyệt. Prototype
   không kết nối hàng đợi và không mô phỏng thời điểm nhân viên nhận hồ sơ; sản phẩm
   thật chỉ cho thu hồi trước sự kiện nhận được xác nhận từ hệ thống.
+- Hạn yêu cầu, thời gian còn lại và hạn shop phản hồi là chính sách mock của ca demo;
+  SLA nhân viên 24 giờ bắt đầu từ lúc họ nhận snapshot. Không suy ra đây là thời hạn
+  hoặc quy trình hiện hành của Shopee.
 - Nút hoàn tiền chỉ tạo bản nháp mock và yêu cầu xác nhận rõ ràng; ca người bán
   đúng không có hành động tự từ chối/tự hoàn. Thiếu audit hoặc bằng chứng thì
   giữ trạng thái chưa đủ căn cứ và chuyển người.
@@ -69,6 +82,7 @@ PAIR Explainability/Trust và Graceful Failure như bảng trên.
 - **Hồ Trọng Nghĩa (2A202603729):** giới thiệu lát cắt hàng không đúng mô tả,
   hai ca rủi ro đắt nhất và vì sao phải giữ trạng thái chưa đủ căn cứ.
 - **Phạm Đăng Quang (2A202603760):** trình diễn xin bằng chứng, mở bản nháp
-  nhưng chưa gửi, chuyển nhân viên; nhấn mạnh mức tự chủ và quyền duyệt.
+  nhưng chưa gửi, chuyển trưởng nhóm; nhấn mạnh mức tự chủ và quyền duyệt, đồng thời
+  phân biệt hạn gửi của người mua, hạn phản hồi của shop và SLA của nhân viên.
 - **Nguyễn Minh Quân (2A202603747):** chỉ các chú thích 1–5, đổi sang ca người
   bán đúng và đọc mapping G10/G11/G8-G9 cùng PAIR.
